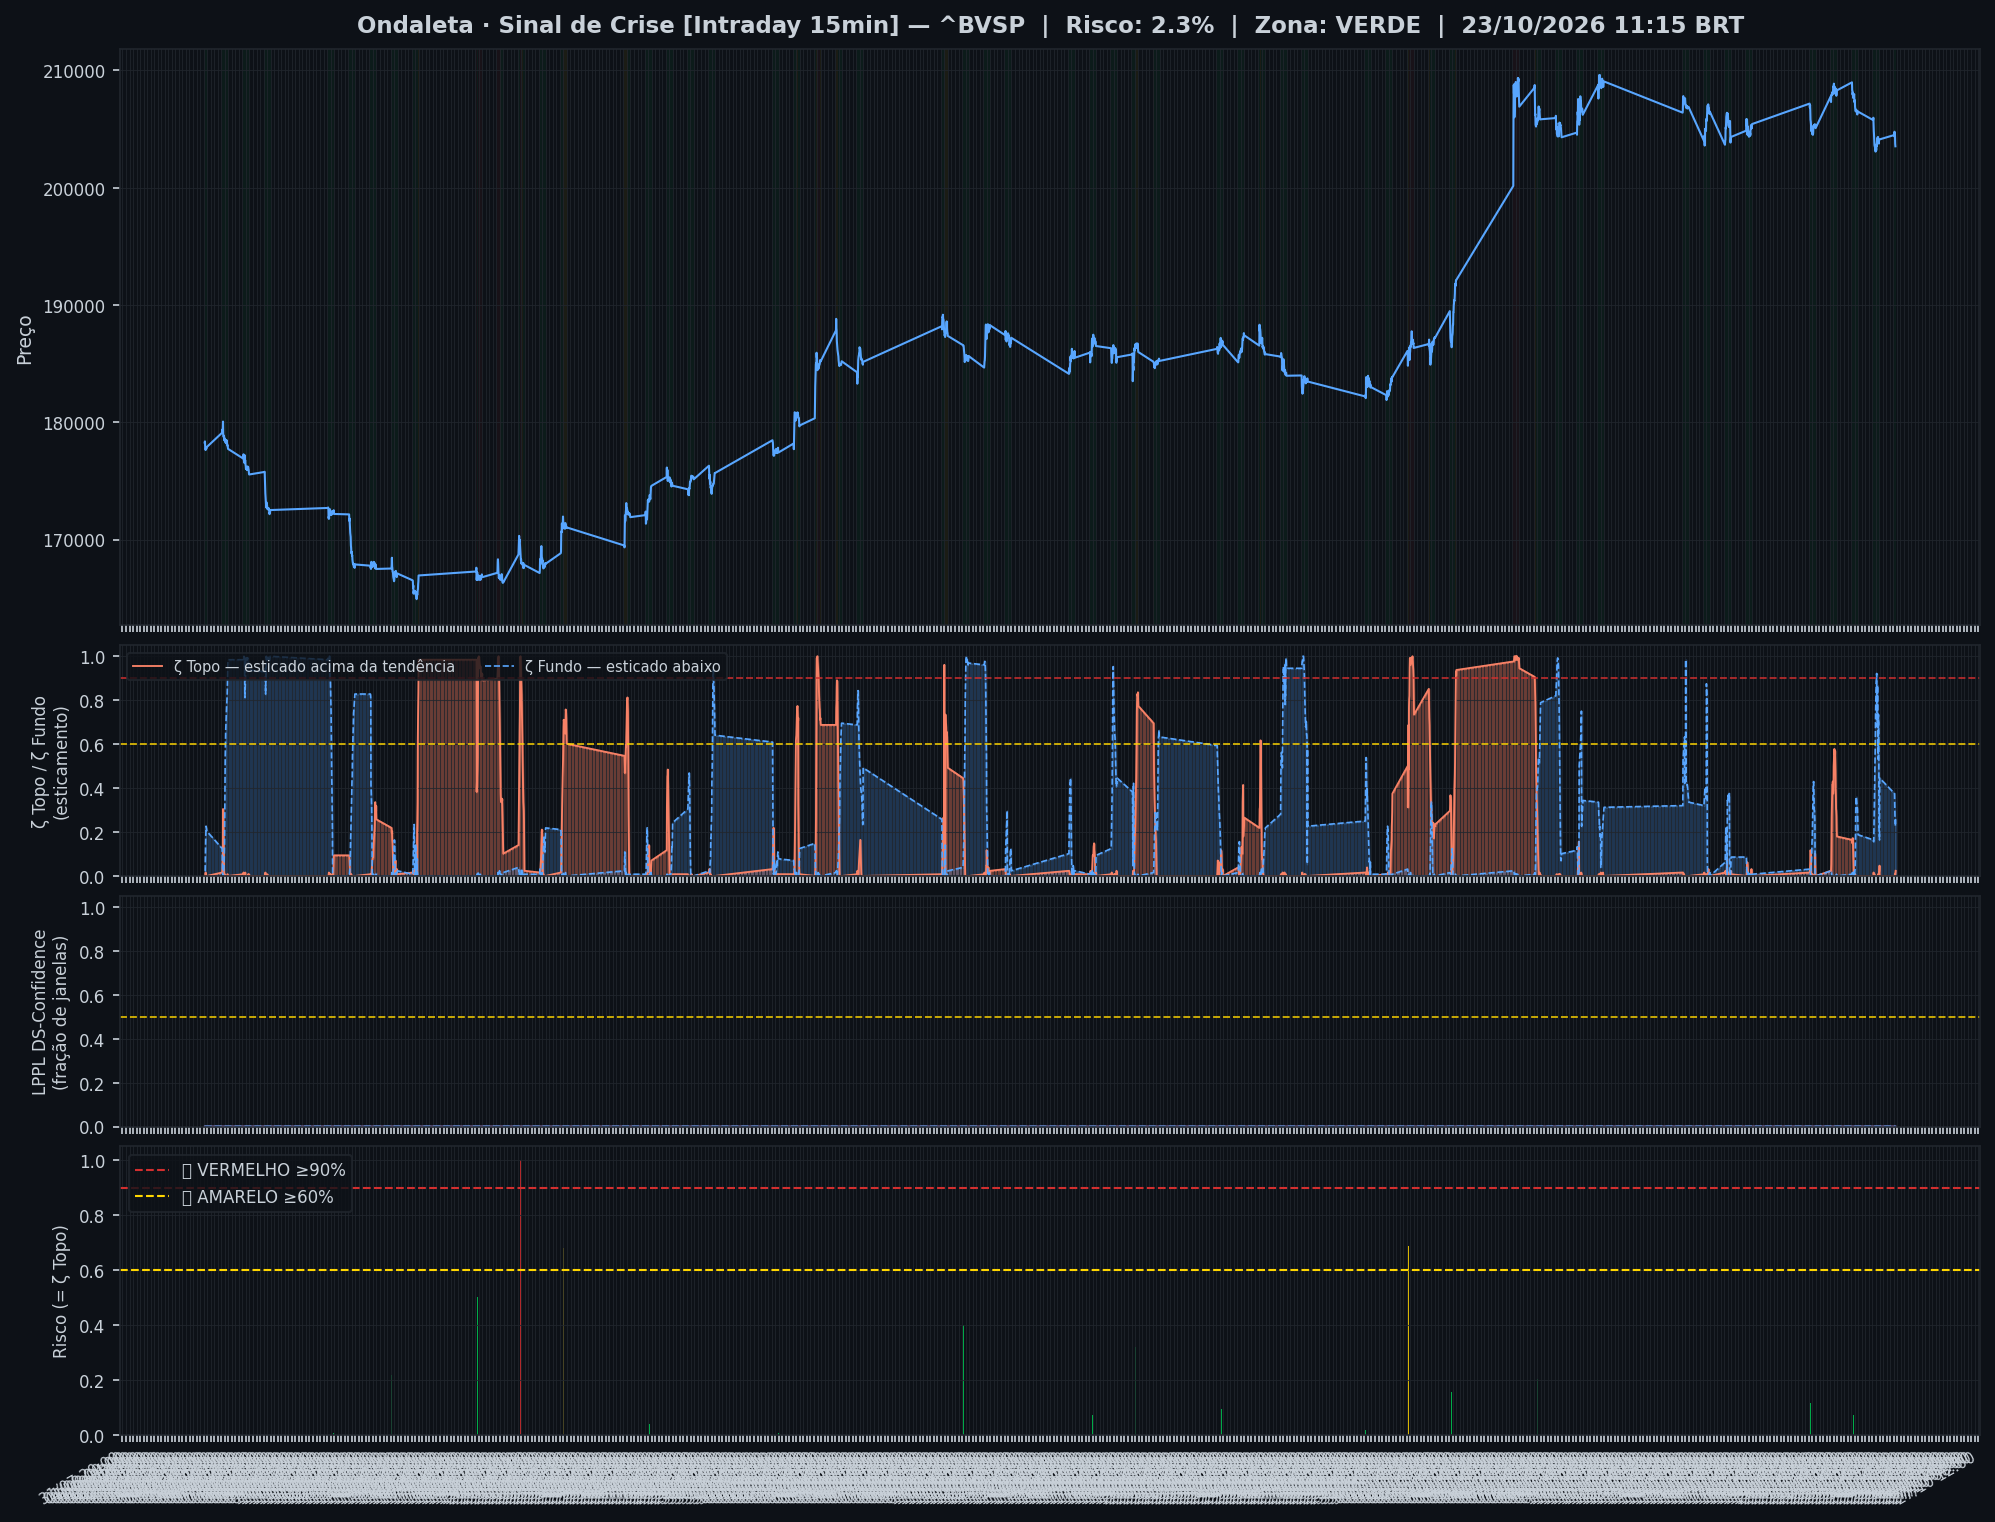
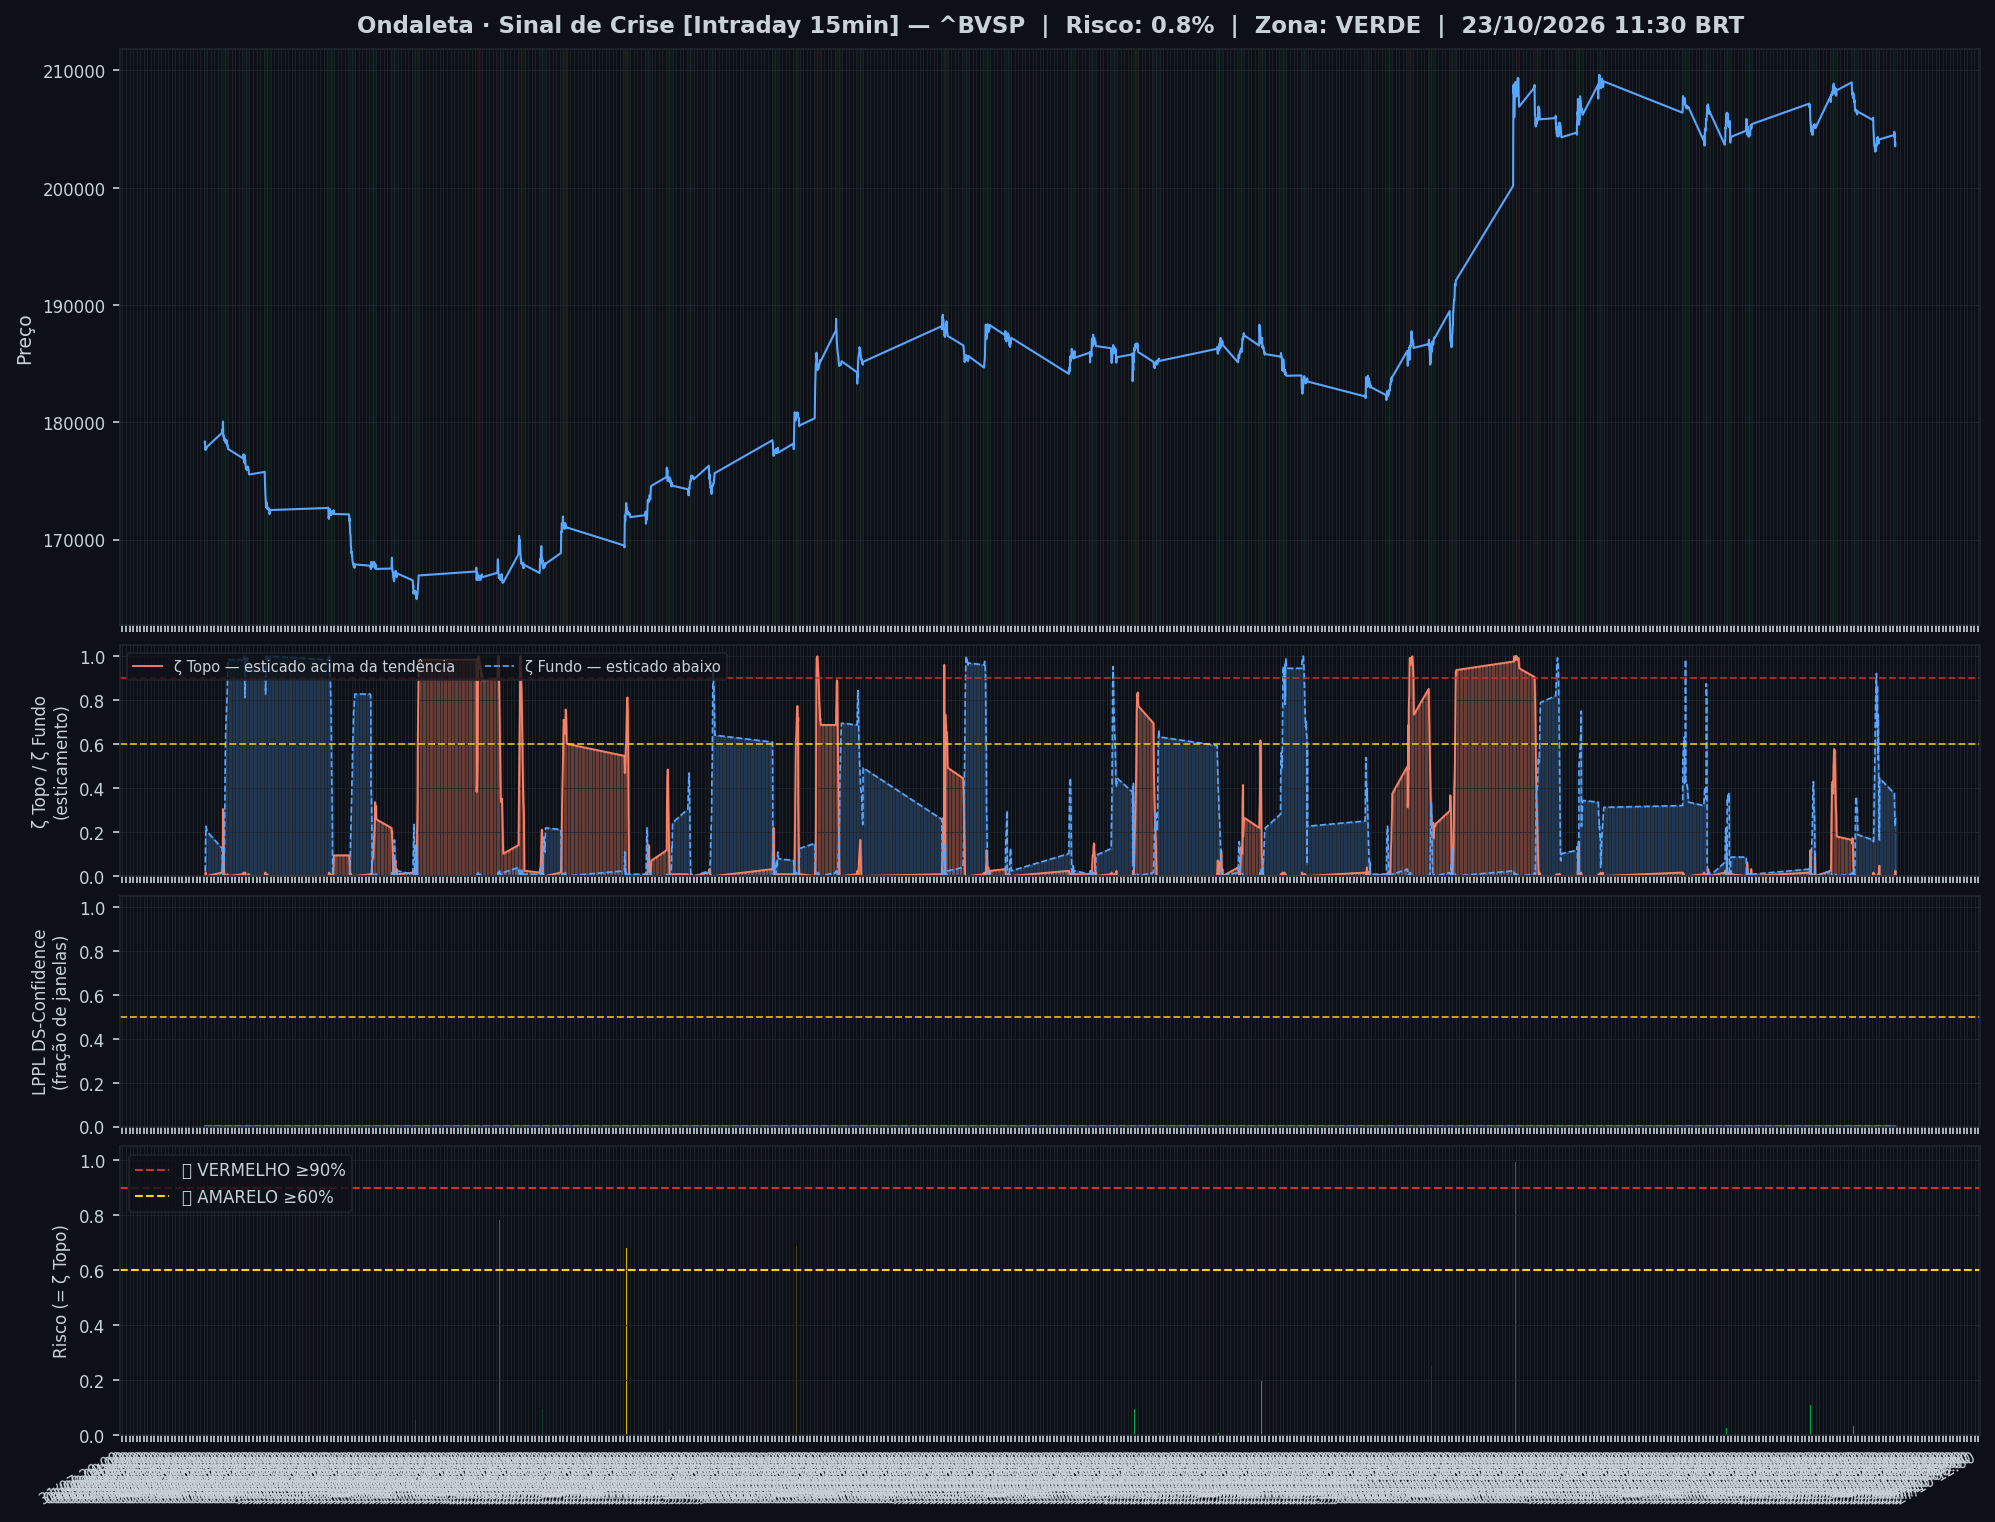
🤖 Auto: Sinal 23/10/2026 11:45

diff --git a/content/intraday/2026-10-23.md b/content/intraday/2026-10-23.md
@@ -1,11 +1,11 @@
 ---
-title: "🟢 Intraday 23/10/2026 11:15 BRT — VERDE"
+title: "🟢 Intraday 23/10/2026 11:30 BRT — VERDE"
 date: 2026-10-23
 tags: [intraday]
 ---
 
-> [!success] Onde o mercado está agora (23/10 11:15, candles de 15 min): **🟢 Calmo**
-> `Pânico ◀────────●────────────▶ Euforia`
+> [!success] Onde o mercado está agora (23/10 11:30, candles de 15 min): **🟢 Calmo**
+> `Pânico ◀───────●─────────────▶ Euforia`
 >
 > O Ibovespa está dentro da sua faixa normal, sem excesso para cima nem para baixo.
 > No gráfico diário: 🟡 Preço esticado acima da tendência.
@@ -20,7 +20,7 @@ tags: [intraday]
 > | 📍 **Sinais** | hoje: nenhum sinal<br>⚠ alerta raro de topo mensal em formação | [abrir](sinais-topo-fundo/) |
 > | 🧪 **Placar ao vivo** | nenhuma operação encerrada ainda (desde 23/10/2026) | [abrir](operacoes/) |
 
-> [!success] Sinal de Crise · Intraday 15 min (23/10 11:15): 🟢 **VERDE** — Risco 2% · ▲ +1 p.p. vs leitura anterior
+> [!success] Sinal de Crise · Intraday 15 min (23/10 11:30): 🟢 **VERDE** — Risco 1% · ▼ -2 p.p. vs leitura anterior
 > `░░░░░░░░░░░░░░░░░░░░`
 > Preço na faixa normal em torno da tendência.
 
@@ -32,13 +32,13 @@ tags: [intraday]
 >
 > *Leitura educacional baseada em 26 anos de dados, não recomendação. [Como usar](../metodologia/crise#3-como-usar-na-prática).*
 
-| Indicador — Sinal de Crise · Intraday 15 min (23/10 11:15) | Valor |
+| Indicador — Sinal de Crise · Intraday 15 min (23/10 11:30) | Valor |
 |---|---|
-| 🔴 ζ Topo — preço esticado acima da tendência | **2%** |
-| 🔵 ζ Fundo — preço esticado abaixo da tendência | 26% |
+| 🔴 ζ Topo — preço esticado acima da tendência | **1%** |
+| 🔵 ζ Fundo — preço esticado abaixo da tendência | 27% |
 | 🫧 LPPL bolha — alta super-exponencial (risco de crash) | 0% |
 | 🫧 LPPL antibolha — queda super-exponencial (risco de repique) | 0% |
-| 📊 Ibovespa | 203.533 pts |
+| 📊 Ibovespa | 203.831 pts |
 
 ![Gráfico do sinal](../graficos/sinal_intraday.png)
 
@@ -46,6 +46,7 @@ tags: [intraday]
 
 | Data | Zona | Evento | Risco | ζ Topo | ζ Fundo | LPPL |
 |---|---|---|---|---|---|---|
+| 2026-10-23 11:30 | 🟢 VERDE |  | **1%** | 1% | 27% | 0% |
 | 2026-10-23 11:15 | 🟢 VERDE |  | **2%** | 2% | 26% | 0% |
 | 2026-10-23 11:00 | 🟢 VERDE |  | **2%** | 2% | 23% | 0% |
 | 2026-10-23 10:45 | 🟢 VERDE |  | **1%** | 1% | 24% | 0% |
@@ -75,49 +76,48 @@ tags: [intraday]
 | 2026-10-22 12:15 | 🟢 VERDE |  | **0%** | 0% | 🔵 **60%** | 0% |
 | 2026-10-22 12:00 | 🟢 VERDE |  | **0%** | 0% | 54% | 0% |
 | 2026-10-22 11:45 | 🟢 VERDE |  | **0%** | 0% | 48% | 0% |
-| 2026-10-22 11:30 | 🟢 VERDE |  | **0%** | 0% | 44% | 0% |
 
 <small>Destaques: 🟡 ≥ 60% · 🔴 ≥ 90% (Risco e ζ Topo) · 🔵 ≥ 60% · 🔪 ≥ 90% (ζ Fundo) · 🫧 ≥ 30% · 🫧🔴 ≥ 50% (LPPL)</small>
 
 ## Monitor Multi-Ativo
 
-**8% dos ativos em tensão** (1🔴 1🟡) · **3 com ζ Fundo alto** — quanto mais ativos disparam juntos, mais confiável o sinal.
+**4% dos ativos em tensão** (1🔴 1🟡) · **3 com ζ Fundo alto** — quanto mais ativos disparam juntos, mais confiável o sinal.
 
 > [!danger] Em destaque no multi-ativo
-> 🔴 **BTGP BANCO** ζ Topo 92% · 🔪 **EMBRAER** ζ Fundo 91% · 🔪 **GERDAU** ζ Fundo 91% · 🔵 **USD/BRL** ζ Fundo 89% · 🟡 **COPEL** ζ Topo 63%
+> 🔴 **BTGP BANCO** ζ Topo 94% · 🔵 **GERDAU** ζ Fundo 89% · 🔵 **EMBRAER** ζ Fundo 88% · 🔵 **USD/BRL** ζ Fundo 84%
 
 | Zona | Ativo | Setor | ζ Topo | ζ Fundo |
 |---|---|---|---|---|
-| 🔴 | **BTGP BANCO** | Financeiro | 🔴 **92.2%** | 0.0% |
-| 🟢 | **EMBRAER** | Outros | 0.0% | 🔪 **91.4%** |
-| 🟢 | **GERDAU** | Siderurgia | 0.0% | 🔪 **90.6%** |
-| 🟢 | **USD/BRL** | Câmbio | 0.0% | 🔵 **89.1%** |
-| 🟡 | **COPEL** | Energia | 🟡 **63.3%** | 4.7% |
-| 🟢 | **PETROBRAS** | Petróleo | 47.7% | 0.0% |
-| 🟢 | **SABESP** | Saneamento | 44.5% | 0.8% |
+| 🔴 | **BTGP BANCO** | Financeiro | 🔴 **93.8%** | 0.8% |
+| 🟢 | **GERDAU** | Siderurgia | 0.0% | 🔵 **89.1%** |
+| 🟢 | **EMBRAER** | Outros | 0.0% | 🔵 **88.3%** |
+| 🟢 | **USD/BRL** | Câmbio | 0.8% | 🔵 **83.6%** |
+| 🟡 | **COPEL** | Energia | 56.2% | 7.0% |
+| 🟢 | **PETROBRAS** | Petróleo | 49.2% | 0.0% |
+| 🟢 | **BRASIL** | Financeiro | 46.1% | 0.0% |
+| 🟢 | **SABESP** | Saneamento | 43.8% | 0.8% |
+| 🟢 | **WEG** | Industrial | 0.0% | 43.8% |
 | 🟢 | **PRIO** | Petróleo | 43.8% | 0.0% |
-| 🟢 | **REDE D OR** | Saúde | 43.8% | 1.6% |
-| 🟢 | **B3** | Financeiro | 42.2% | 0.0% |
-| 🟢 | **VALE** | Mineração | 3.1% | 41.4% |
-| 🟢 | **PETROBRAS** | Petróleo | 40.6% | 0.0% |
-| 🟢 | **BRASIL** | Financeiro | 38.3% | 0.0% |
+| 🟢 | **B3** | Financeiro | 40.6% | 0.0% |
+| 🟢 | **REDE D OR** | Saúde | 40.6% | 1.6% |
+| 🟢 | **PETROBRAS** | Petróleo | 39.8% | 0.0% |
+| 🟢 | **VALE** | Mineração | 1.6% | 39.1% |
 | 🟢 | **EQUATORIAL** | Energia | 36.7% | 0.0% |
-| 🟢 | **WEG** | Industrial | 0.8% | 35.9% |
-| 🟢 | **BRADESCO** | Financeiro | 0.8% | 30.5% |
-| 🟢 | **ENEVA** | Energia | 0.0% | 27.3% |
-| 🟢 | **AXIA ENERGIA** | Energia | 20.3% | 20.3% |
-| 🟢 | **ULTRAPAR** | Outros | 0.0% | 12.5% |
-| 🟢 | **VIBRA** | Energia | 6.2% | 0.8% |
-| 🟢 | **ITAUUNIBANCO** | Financeiro | 2.3% | 3.1% |
-| 🟢 | **ITAUSA** | Financeiro | 0.8% | 2.3% |
-| 🟢 | **LOCALIZA** | Aluguel | 0.0% | 2.3% |
-| 🟢 | **AMBEV S/A** | Consumo | 0.8% | 1.6% |
+| 🟢 | **BRADESCO** | Financeiro | 0.8% | 32.8% |
+| 🟢 | **ENEVA** | Energia | 0.0% | 31.2% |
+| 🟢 | **AXIA ENERGIA** | Energia | 14.1% | 23.4% |
+| 🟢 | **ULTRAPAR** | Outros | 1.6% | 16.4% |
+| 🟢 | **AMBEV S/A** | Consumo | 0.8% | 6.2% |
+| 🟢 | **ITAUUNIBANCO** | Financeiro | 0.8% | 4.7% |
+| 🟢 | **LOCALIZA** | Aluguel | 1.6% | 3.9% |
+| 🟢 | **VIBRA** | Energia | 3.9% | 0.0% |
+| 🟢 | **ITAUSA** | Financeiro | 0.8% | 3.1% |
 
 <small>Destaques: 🟡 ≥ 60% · 🔴 ≥ 90% (Risco e ζ Topo) · 🔵 ≥ 60% · 🔪 ≥ 90% (ζ Fundo) · 🫧 ≥ 30% · 🫧🔴 ≥ 50% (LPPL)</small>
 
 ![Monitor multi-ativo](../graficos/multi_intraday.png)
 
-*Página atualizada em 23/10/2026 11:30 BRT (leitura da barra de 2026-10-23 11:15 BRT).*
+*Página atualizada em 23/10/2026 11:45 BRT (leitura da barra de 2026-10-23 11:30 BRT).*
 
 > [!info]- Como interpretar (clique para expandir)
 > - **ζ Topo**: fração dos coeficientes wavelet (Chapéu Mexicano, Caetano & Yoneyama 2009) acima de +0,8σ na faixa mais recente. Na ponta da série isso acontece quando o preço termina **esticado acima da tendência** em muitas escalas — euforia/topo. ζ=0,90 é o limiar de Caetano: quedas que partiram desse padrão foram mais fundas. **É risco de reversão, não data do crash.**

diff --git a/content/index.md b/content/index.md
@@ -6,10 +6,10 @@ tags: [home]
 
 **As ondas do mercado, explicadas.** Leitura do Ibovespa com estatística de 26 anos, baseada no trabalho de pesquisadores e traders reconhecidos e adaptada por Jarbas Daniel da Costa.
 
-*Última atualização: 23/10/2026 11:30 BRT · Intraday 15min*
+*Última atualização: 23/10/2026 11:45 BRT · Intraday 15min*
 
-> [!success] Onde o mercado está agora (23/10 11:15, candles de 15 min): **🟢 Calmo**
-> `Pânico ◀────────●────────────▶ Euforia`
+> [!success] Onde o mercado está agora (23/10 11:30, candles de 15 min): **🟢 Calmo**
+> `Pânico ◀───────●─────────────▶ Euforia`
 >
 > O Ibovespa está dentro da sua faixa normal, sem excesso para cima nem para baixo.
 > No gráfico diário: 🟡 Preço esticado acima da tendência.
@@ -20,7 +20,7 @@ tags: [home]
 
 | Módulo | Agora | |
 |---|---|---|
-| 🌊 **Sinal de Crise** | 🟢 VERDE · 🟢 calmo · ζ Topo 2% | [relatório](intraday/2026-10-23) |
+| 🌊 **Sinal de Crise** | 🟢 VERDE · 🟢 calmo · ζ Topo 1% | [relatório](intraday/2026-10-23) |
 | 📈 **Tendência MME9** | Diário 🟢 comprado desde 02/10 (+8,7%) · ⚡ zera abaixo de 203.052 (durante o pregão)<br>Semanal 🟢 comprado desde 31/08 (+15,7%) | [abrir](operacoes/tendencia) |
 | 🎯 **Entradas do método** | 🟢 comprado: Diário · Nadaraya | [abrir](operacoes/entradas) |
 | 📍 **Sinais** | hoje: nenhum sinal<br>⚠ alerta raro de topo mensal em formação | [abrir](sinais-topo-fundo/) |
@@ -42,26 +42,26 @@ tags: [home]
 > *Leitura educacional baseada em 26 anos de dados, não recomendação. [Como usar](metodologia/crise#3-como-usar-na-prática).*
 
 > [!info]- 🌊 Detalhes do Sinal de Crise (indicadores e últimos 7 pregões)
-> > [!success] Sinal de Crise · Intraday 15 min (23/10 11:15): 🟢 **VERDE** — Risco 2% · ▲ +1 p.p. vs leitura anterior
+> > [!success] Sinal de Crise · Intraday 15 min (23/10 11:30): 🟢 **VERDE** — Risco 1% · ▼ -2 p.p. vs leitura anterior
 > > `░░░░░░░░░░░░░░░░░░░░`
 > > Preço na faixa normal em torno da tendência.
 >
 >
-> | Indicador — Sinal de Crise · Intraday 15 min (23/10 11:15) | Valor |
+> | Indicador — Sinal de Crise · Intraday 15 min (23/10 11:30) | Valor |
 > |---|---|
-> | 🔴 ζ Topo — preço esticado acima da tendência | **2%** |
-> | 🔵 ζ Fundo — preço esticado abaixo da tendência | 26% |
+> | 🔴 ζ Topo — preço esticado acima da tendência | **1%** |
+> | 🔵 ζ Fundo — preço esticado abaixo da tendência | 27% |
 > | 🫧 LPPL bolha — alta super-exponencial (risco de crash) | 0% |
 > | 🫧 LPPL antibolha — queda super-exponencial (risco de repique) | 0% |
-> | 📊 Ibovespa | 203.533 pts |
+> | 📊 Ibovespa | 203.831 pts |
 >
-> **Multi-ativo:** 8% em tensão (1🔴 1🟡 de 24 ativos)
+> **Multi-ativo:** 4% em tensão (1🔴 1🟡 de 24 ativos)
 >
 > **Últimos 7 pregões**
 >
 > | Data | Zona | Risco | ζ Topo | ζ Fundo | LPPL |
 > |---|---|---|---|---|---|
-> | [23/10/2026](intraday/2026-10-23) | 🟢 VERDE | **2%** | 2% | 26% | 0% |
+> | [23/10/2026](intraday/2026-10-23) | 🟢 VERDE | **1%** | 1% | 27% | 0% |
 > | [22/10/2026](intraday/2026-10-22) | 🟢 VERDE | **0%** | 0% | 45% | 0% |
 >
 > <small>Destaques: 🟡 ≥ 60% · 🔴 ≥ 90% (Risco e ζ Topo) · 🔵 ≥ 60% · 🔪 ≥ 90% (ζ Fundo) · 🫧 ≥ 30% · 🫧🔴 ≥ 50% (LPPL)</small>

diff --git a/content/historico.md b/content/historico.md
@@ -7,6 +7,7 @@ tags: [historico]
 
 | Data | Modo | Zona | Risco | IMA | LPPL |
 |---|---|---|---|---|---|
+| 2026-10-23 11:30 | intraday | 🟢 VERDE | 1% | 1% | 0% |
 | 2026-10-23 11:15 | intraday | 🟢 VERDE | 2% | 2% | 0% |
 | 2026-10-23 11:00 | intraday | 🟢 VERDE | 2% | 2% | 0% |
 | 2026-10-23 10:45 | intraday | 🟢 VERDE | 1% | 1% | 0% |
